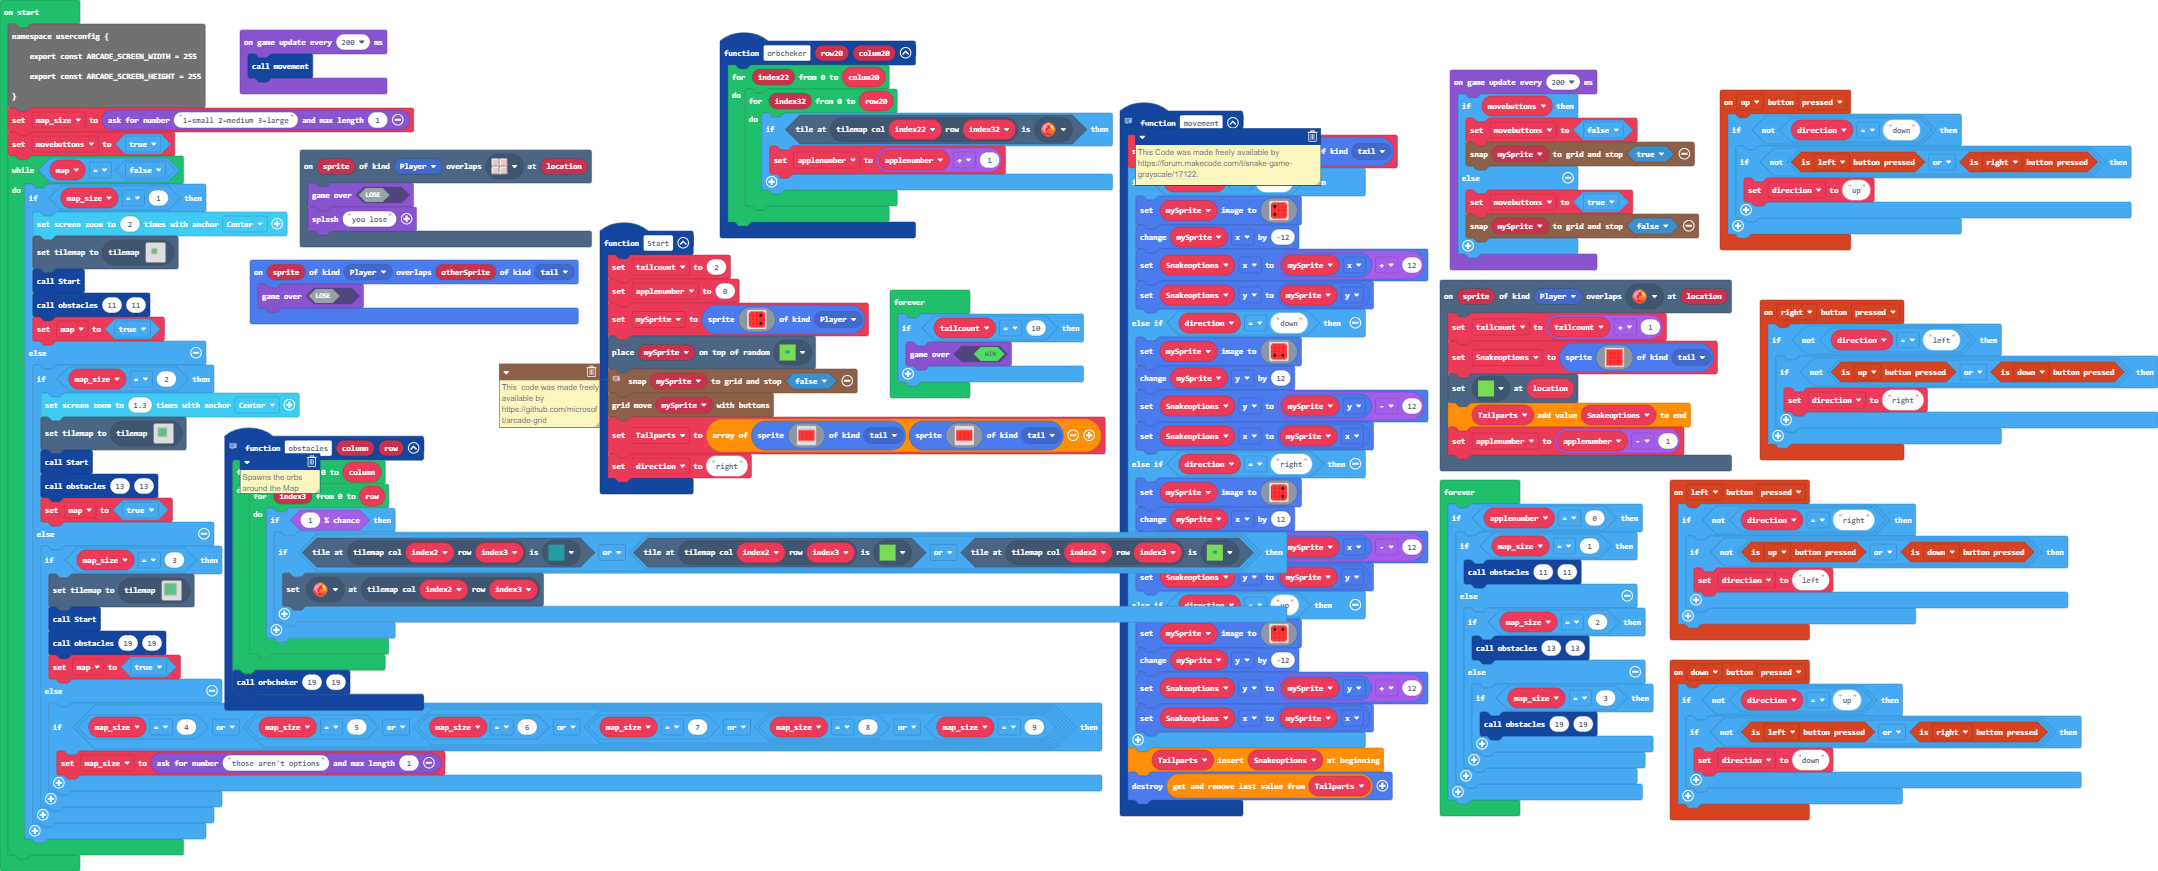
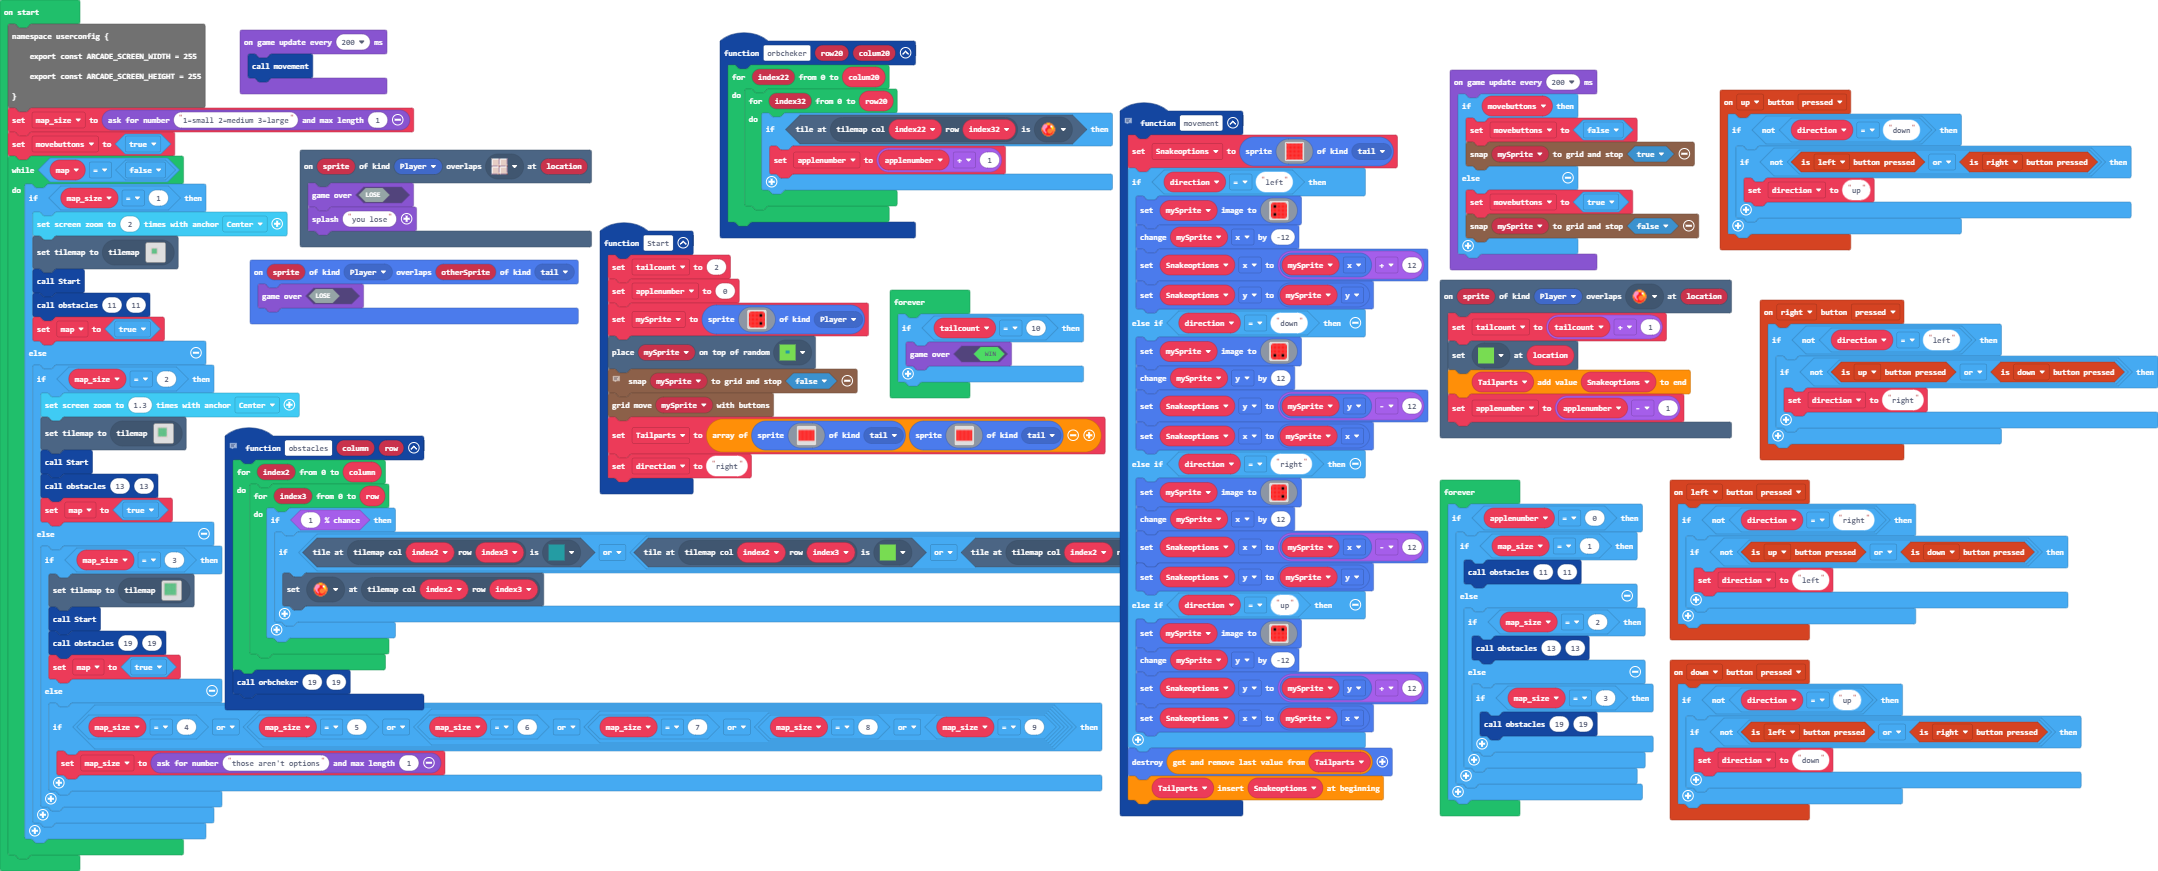
Update main.blocks, main.ts

diff --git a/main.ts b/main.ts
@@ -14,20 +14,6 @@ controller.up.onEvent(ControllerButtonEvent.Pressed, function () {
 })
 scene.onOverlapTile(SpriteKind.Player, assets.tile`myTile`, function (sprite, location) {
     tailcount = tailcount + 1
-    Snakeoptions = sprites.create(img`
-        2 2 2 2 2 2 2 2 2 2 2 2 
-        2 2 2 2 2 2 2 2 2 2 2 2 
-        2 2 2 2 2 2 2 2 2 2 2 2 
-        2 2 2 2 2 2 2 2 2 2 2 2 
-        2 2 2 2 2 2 2 2 2 2 2 2 
-        2 2 2 2 2 2 2 2 2 2 2 2 
-        2 2 2 2 2 2 2 2 2 2 2 2 
-        2 2 2 2 2 2 2 2 2 2 2 2 
-        2 2 2 2 2 2 2 2 2 2 2 2 
-        2 2 2 2 2 2 2 2 2 2 2 2 
-        2 2 2 2 2 2 2 2 2 2 2 2 
-        2 2 2 2 2 2 2 2 2 2 2 2 
-        `, SpriteKind.tail)
     tiles.setTileAt(location, assets.tile`myTile0`)
     Tailparts.push(Snakeoptions)
     applenumber = applenumber - 1
@@ -121,8 +107,8 @@ function movement () {
         Snakeoptions.y = mySprite.y + 12
         Snakeoptions.x = mySprite.x
     }
-    Tailparts.unshift(Snakeoptions)
     sprites.destroy(Tailparts.pop())
+    Tailparts.unshift(Snakeoptions)
 }
 function Start () {
     tailcount = 2
@@ -214,8 +200,8 @@ sprites.onOverlap(SpriteKind.Player, SpriteKind.tail, function (sprite, otherSpr
 })
 let mySprite: Sprite = null
 let applenumber = 0
-let Tailparts: Sprite[] = []
 let Snakeoptions: Sprite = null
+let Tailparts: Sprite[] = []
 let tailcount = 0
 let direction = ""
 let map = false
